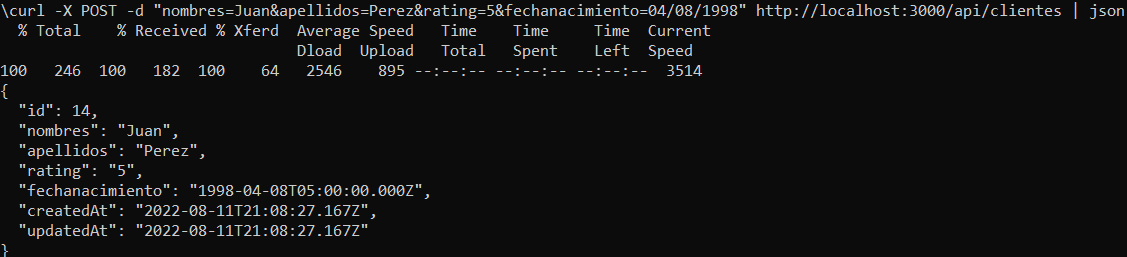
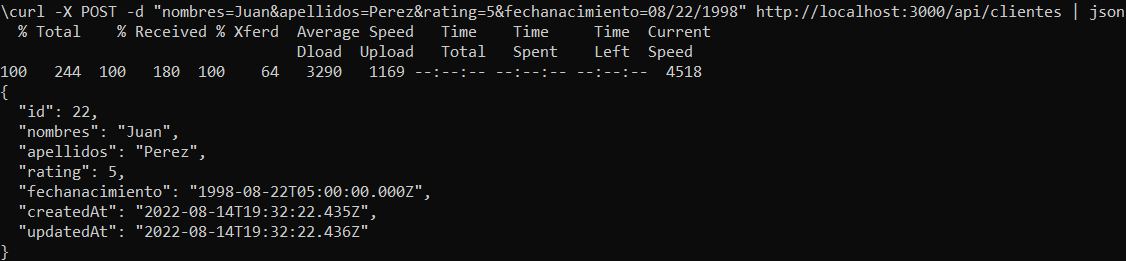
rest y ormintermedio

diff --git a/tutoriales/express_rest.md b/tutoriales/express_rest.md
@@ -66,7 +66,7 @@ router.get('/clientes', function(req, res, next) {
 * Compruebe el funcionamiento del servidor, con: **npm run devstart**
   + En la línea de comandos del cliente, realice una petición GET al URL `http://localhost:3000/api/clientes`
 
-  `curl http://localhost:3000/api/clientes | json` 
+  `curl -X GET http://localhost:3000/api/clientes | json` 
 
   <p align="center">
     <img src="imagenes/curl2.png">
@@ -105,7 +105,7 @@ router.get('/clientes/:id', function(req, res, next) {
 * Compruebe el funcionamiento del servidor, con: **npm run devstart**
   + En la línea de comandos del cliente, realice una petición GET al URL `http://localhost:3000/api/clientes/3` 
 
-  `curl http://localhost:3000/api/clientes/3 | json`
+  `curl -X GET http://localhost:3000/api/clientes/3 | json`
 
   <p align="center">
     <img src="imagenes/curl3.png">
@@ -132,7 +132,7 @@ Para guardar UN registro de una entidad en una base de datos relacional, impleme
     Cliente.create({
       nombres: req.body.nombres,
       apellidos: req.body.apellidos,
-      rating: req.body.rating,
+      rating: parseInt(req.body.rating),
       fechanacimiento: req.body.fechanacimiento,  
       createdAt: new Date(),  
       updatedAt: new Date()  
@@ -147,7 +147,7 @@ Para guardar UN registro de una entidad en una base de datos relacional, impleme
   * Compruebe el funcionamiento del servidor, con: **npm run devstart**
     + En la línea de comandos del cliente, realice una petición POST al URL `http://localhost:3000/api/clientes` con los siguientes parámetros en el **body**:
 
-    `curl -X POST -d "nombres=Juan&apellidos=Perez&rating=5&fechanacimiento=04/08/1998" http://localhost:3000/api/clientes | json`
+    `curl -X POST -d "nombres=Juan&apellidos=Perez&rating=5&fechanacimiento=08/22/1998" http://localhost:3000/api/clientes | json`
 
     <p align="center">
       <img src="imagenes/curl4.png">
